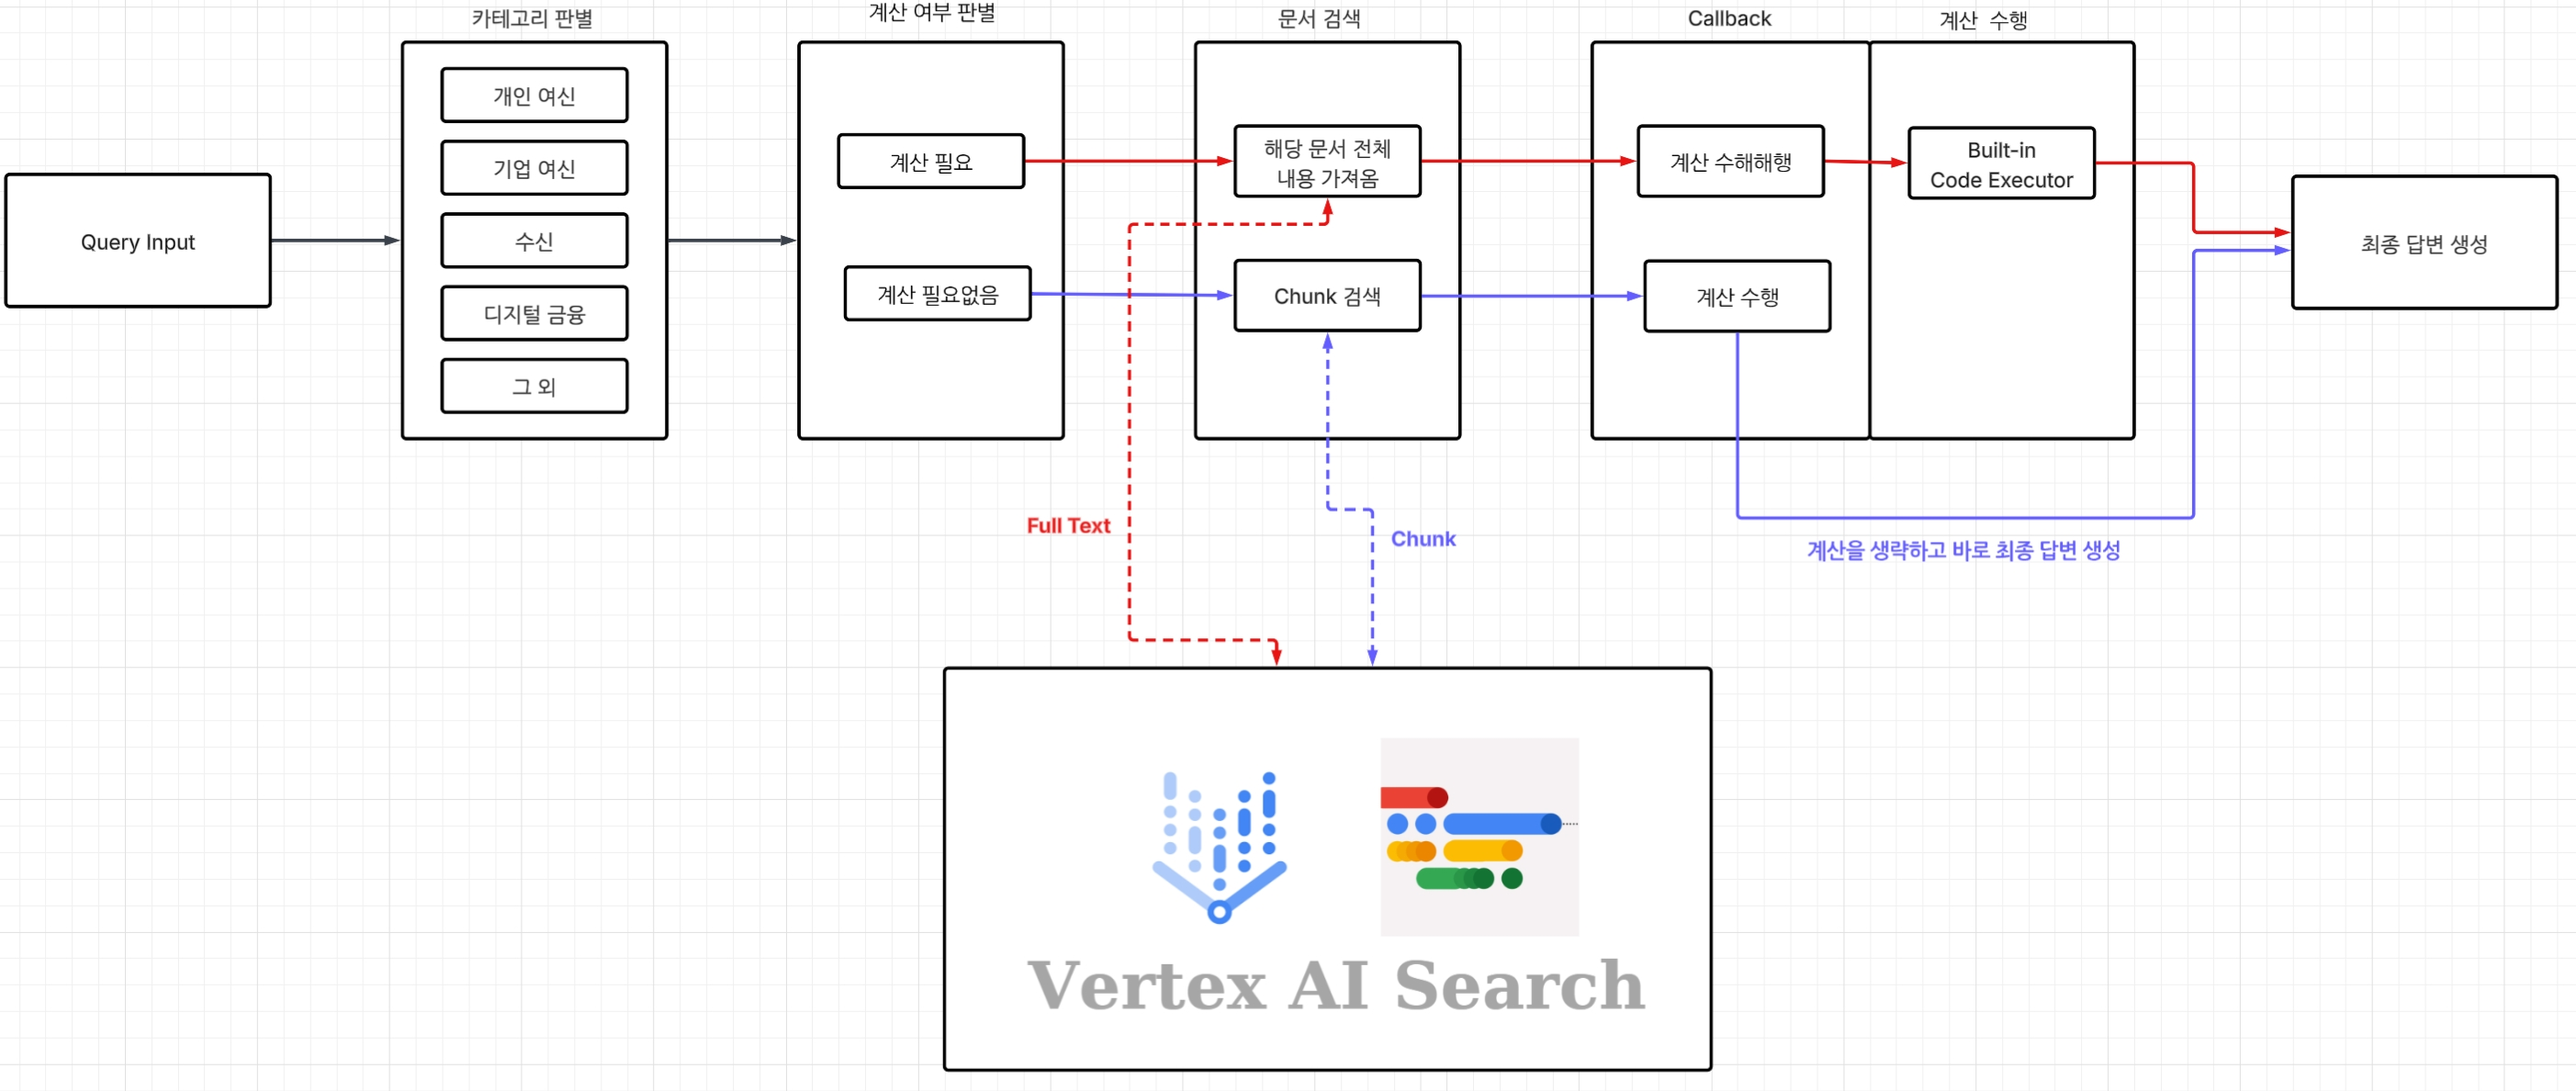
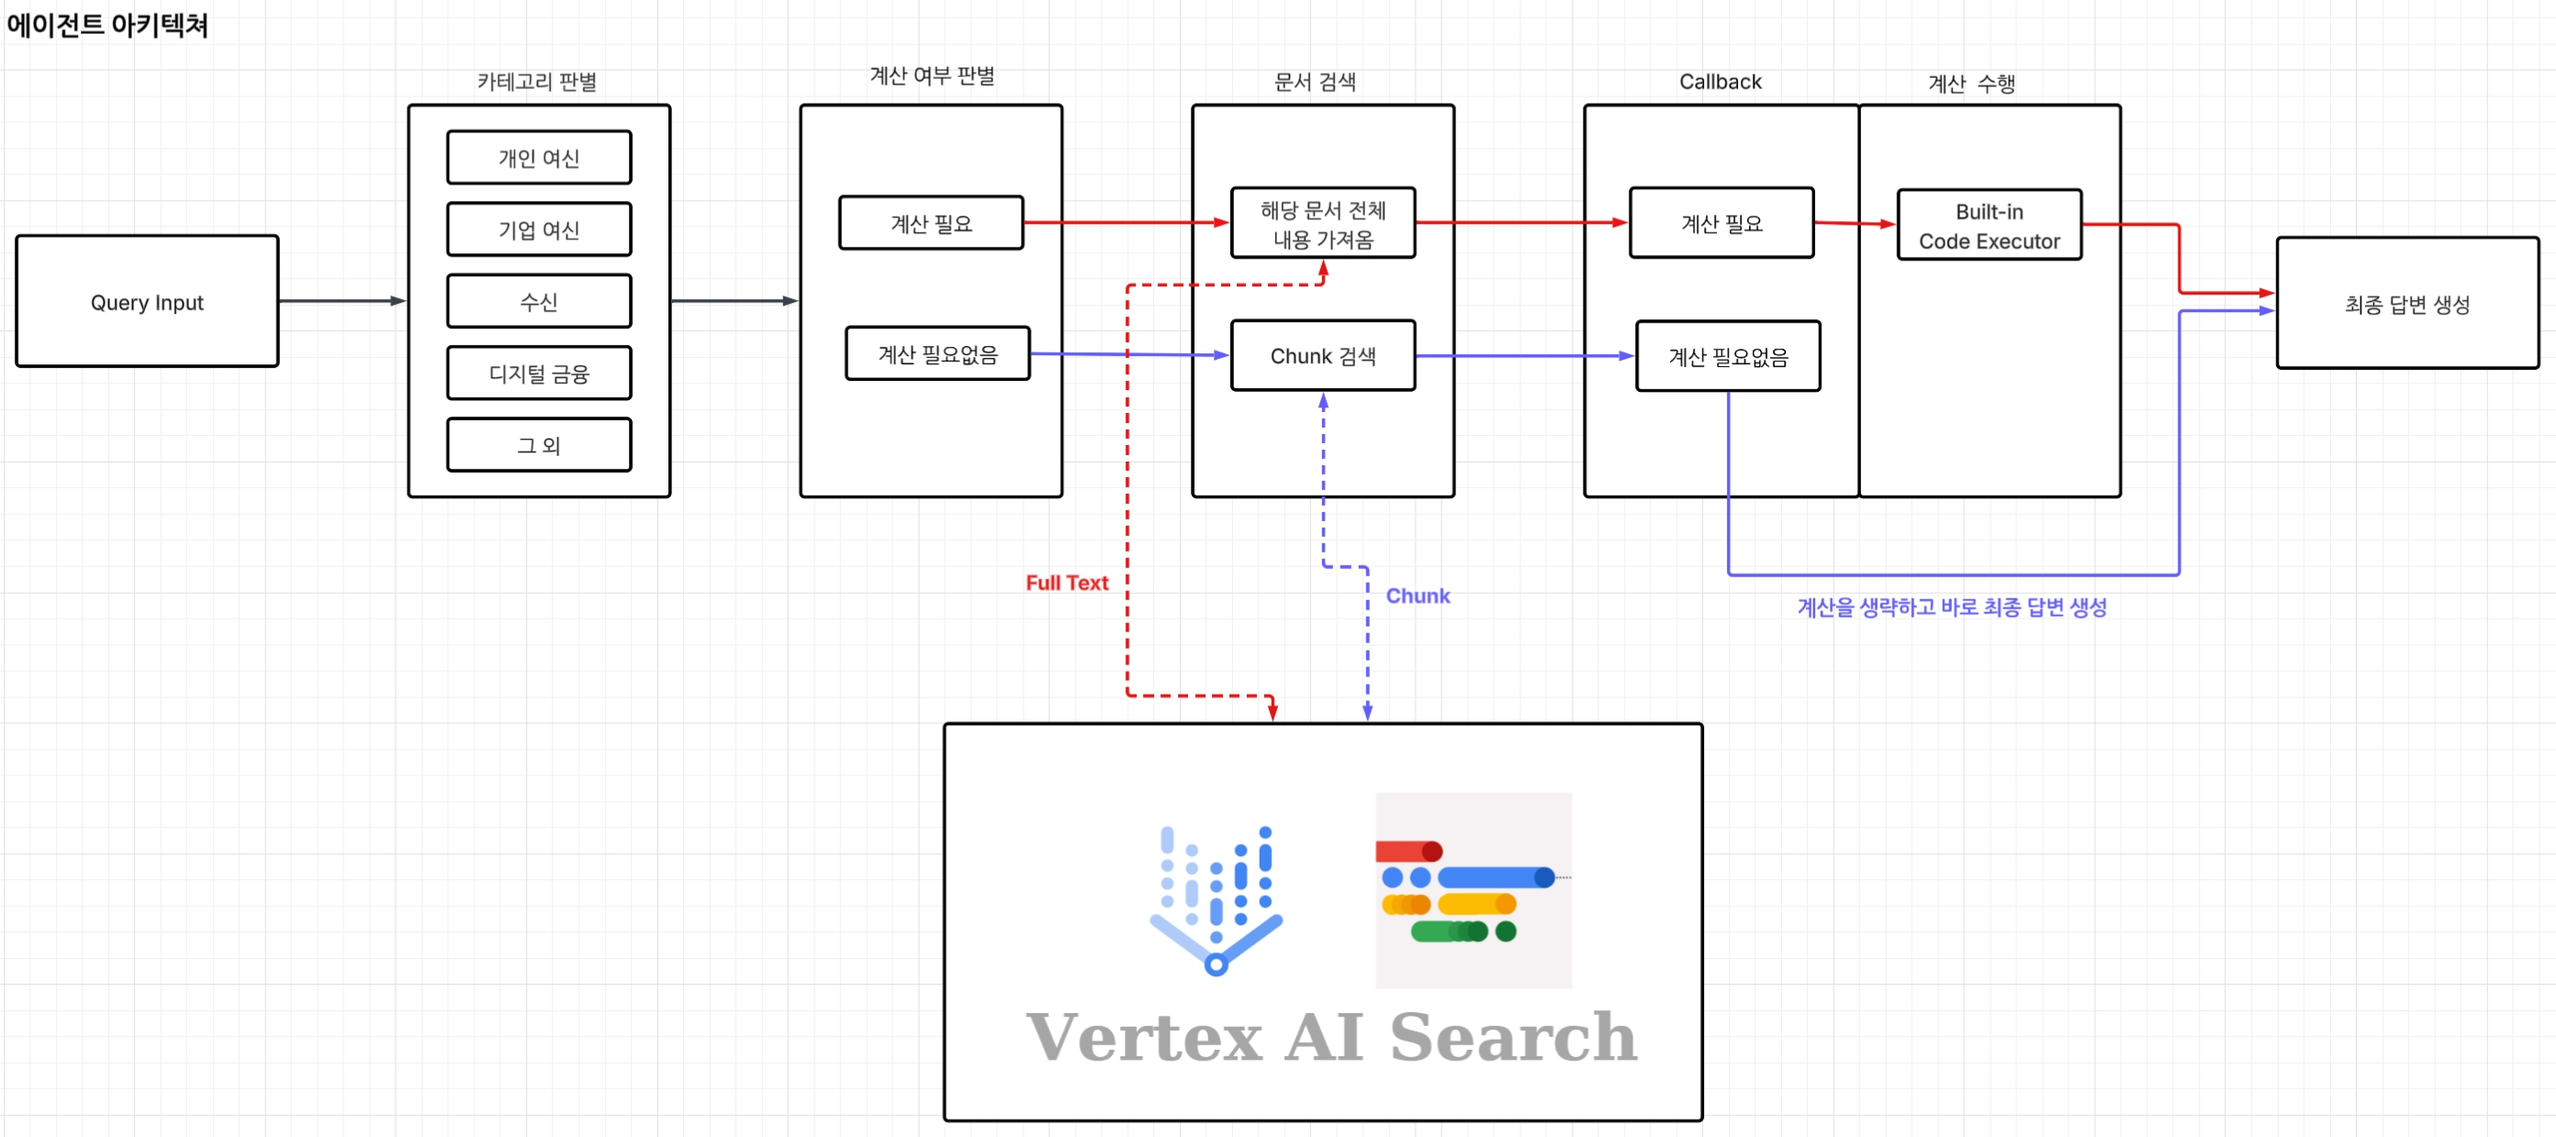
아키텍쳐 사진 수정, readme 수정

diff --git a/README.md b/README.md
@@ -1,9 +1,16 @@
 # PoC (ADK 팀) 진행 내용 및 결과 정리
 
+## 목차
+- 문서 전처리
+- Google ADK(Agent Development Kit)
+- VertexAI Search
+- Agent 아키텍쳐
+- 질답 평가
+---
 ## 문서 전처리 
 ![임베딩](./images/preprocessing.jpeg)
-
-## Google ADK(Agent Development Kit)는
+---
+## Google ADK(Agent Development Kit)
 
 - LLM 에이전트를 빠르게 구축하기 위한 Google의 공식 프레임워크
 - 핵심 철학은 `선언적 에이전트 정의`로, Python 코드 몇 줄로 에이전트를 정의하고 즉시 실행할 수 있다.
@@ -38,11 +45,11 @@ weather_bot = agent.LlmAgent(
     tools=[get_weather]
 )
 ```
-
+---
 ## VertexAI Search
-![VertexAI Search](https://docs.cloud.google.com/generative-ai-app-builder/images/generic-search-overview.svg?hl=ko)
-
-웹사이트 데이터와 기타 정형 또는 비정형 데이터가 포함된 애플리케이션에 통합할 수 있는 강력한 Google 품질의 검색 및 콘텐츠 검색 엔진
+#### 웹사이트 데이터와 기타 정형 또는 비정형 데이터가 포함된 애플리케이션에 통합할 수 있는 강력한 `검색 엔진`
+<!-- <img src="https://docs.cloud.google.com/generative-ai-app-builder/images/generic-search-overview.svg?hl=ko" width="800" height="600"> -->
+<!-- ![VertexAI Search](https://docs.cloud.google.com/generative-ai-app-builder/images/generic-search-overview.svg?hl=ko) -->
 
 ### 데이터 스토어 (Data Store)
 
@@ -60,32 +67,15 @@ weather_bot = agent.LlmAgent(
   - Recommendation (추천): 사용자의 패턴을 학습해 콘텐츠나 상품을 추천
   - Healthcare Search: 의료 데이터(FHIR 등)에 특화된 검색 엔진
 
-### 기능
-#### Serving Controls (서빙 컨트롤)
-- 기본 AI 모델 판단에만 맡기지 않고, **특정 조건(Condition)** 에 따라 **동작(Action)** 을 강제해 검색 결과를 가공/제어하는 기능
-- 대표 유형
-  - `Boost`: 조건에 맞는 결과를 상단/하단으로 **순위 조정**
-  - `Filter`: 조건에 안 맞는 결과를 **결과에서 제외**
-  - `Synonyms`: 서로 다른 단어를 같은 의미로 묶어 **쿼리 확장**
-  - `Redirect`: 특정 쿼리는 검색 대신 **지정 URL로 이동**
-
-#### Search Tuning (검색 모델 튜닝)
-- 쿼리(Query)별로 “정답으로 기대되는 문서 조각”을 학습시켜, 결과의 **우선순위를 재배치**하는 최적화 과정
-- 학습 데이터(요약): `corpus.jsonl`(문서 조각), `queries.jsonl`(질문), `train_labels.tsv`(쿼리-문서 매칭 + `score`: `1` 정답 / `0` 오답)
-
-#### 하이브리드 검색
-- Vertex AI Search가 **키워드 검색(정확 일치)** 과 **시맨틱 검색(의미/문맥 유사)** 을 함께 수행하고,
-- 각 결과를 **RRF(Reciprocal Rank Fusion)** 로 결합해 최종 랭킹을 결정
-
-#### 파서 (Parsing)
+### 파서 (Parsing)
 - `Digital Parser`(기본/무료) : 일반 텍스트 추출 중심
 - `Layout Parser`(유료) : 문서 구조/계층(제목, 목록, 표, 머리글/각주 등) 인식 (txt파일 지원하지 않음)
 - `OCR Parser for PDF`(유료) : 스캔 PDF/이미지 포함 PDF에 최적화. **PDF 전용**, **최대 500페이지**
 
-#### 청킹 (Chunking)
+### 청킹 (Chunking)
 - `LayoutBasedChunking` : 문서 레이아웃(제목, 부제목, 단락, 표 등) 을 인식하고 청킹에서 이를 고려함. 
 
-#### 임베딩
+### 임베딩
 - 기본적으로 Vertex AI Search가 임베딩을 **자동 생성**(대부분은 기본값 권장)
 - 이미 자체 임베딩이 있다면 업로드/지정해서 검색에 활용 가능(내부 용어 반영, 사용자 프로필 기반 개인화 등)
 - 제약(요약)
@@ -94,17 +84,31 @@ weather_bot = agent.LlmAgent(
   - 형식: 1차원 배열, 차원수 `1~768`
   - 임베딩 키 속성(필드) 최대 2개 태그 가능, **설정 후 삭제 불가**
 
-<!-- <img src="./images/embedding.jpeg" width="600" height="400"> -->
-![임베딩](./images/embedding.jpeg)
+<img src="./images/embedding.jpeg" width="700" height="300">
+<!-- ![임베딩](./images/embedding.jpeg) -->
 
+### 하이브리드 검색
+- Vertex AI Search가 **키워드 검색(정확 일치)** 과 **시맨틱 검색(의미/문맥 유사)** 을 함께 수행하고,
+- 각 결과를 **RRF(Reciprocal Rank Fusion)** 로 결합해 최종 랭킹을 결정
 
-## 아키텍쳐
+### Serving Controls (서빙 컨트롤)
+- 기본 AI 모델 판단에만 맡기지 않고, **특정 조건(Condition)** 에 따라 **동작(Action)** 을 강제해 검색 결과를 가공/제어하는 기능
+- 대표 유형
+  - `Boost`: 조건에 맞는 결과를 상단/하단으로 **순위 조정**
+  - `Filter`: 조건에 안 맞는 결과를 **결과에서 제외**
+  - `Synonyms`: 서로 다른 단어를 같은 의미로 묶어 **쿼리 확장**
+  - `Redirect`: 특정 쿼리는 검색 대신 **지정 URL로 이동**
 
+### Search Tuning (검색 모델 튜닝)
+- 쿼리(Query)별로 “정답으로 기대되는 문서 조각”을 학습시켜, 결과의 **우선순위를 재배치**하는 최적화 과정
+- 학습 데이터(요약): `corpus.jsonl`(문서 조각), `queries.jsonl`(질문), `train_labels.tsv`(쿼리-문서 매칭 + `score`: `1` 정답 / `0` 오답)
+---
+## Agent 아키텍쳐
 ![아키텍쳐](./images/adk.jpeg)
-
+---
 ## 질답 평가
 https://tripodoffice-my.sharepoint.com/:x:/r/personal/whjeong_didim365_com/Documents/NH_POC_%E1%84%8C%E1%85%B5%E1%86%AF%E1%84%83%E1%85%A1%E1%86%B8_%E1%84%85%E1%85%B5%E1%84%89%E1%85%B3%E1%84%90%E1%85%B3_%E1%84%8E%E1%85%B1%E1%84%92%E1%85%A1%E1%86%B8_ADK.xlsx?d=w32dbde53889e47e89d0f159f034c1dd8&csf=1&web=1&e=S1pdIl
-
+---
 ## Agent Engine (시간있으면)
 - 랭그 랭체이 -> trace logging 이 제한적  (제생각)
 - 평가
